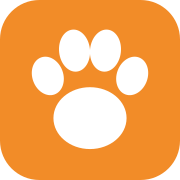
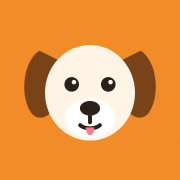
Tablet-ready PWA: install as Ella, full offline photos, tablet layouts, noindex
- Manifest named Ella, standalone, any orientation; dog-face icon in all Android
  and Apple sizes (120/152/167/180 touch icons, maskable 192/512)
- Precache every breed photo and thumbnail; build fails if any is missing
- Two-column breed list in landscape, side-by-side breed page on wide screens
- vercel.json (Vite build, SPA fallback, SW cache headers, X-Robots-Tag)
- noindex meta tag and robots.txt disallowing everything

diff --git a/vite.config.ts b/vite.config.ts
@@ -2,36 +2,44 @@ import react from '@vitejs/plugin-react'
 import { defineConfig } from 'vite'
 import { VitePWA } from 'vite-plugin-pwa'
 
+const ANY_SIZES = [48, 72, 96, 128, 144, 192, 256, 384, 512]
+
 export default defineConfig({
   plugins: [
     react(),
     VitePWA({
       registerType: 'autoUpdate',
       injectRegister: 'script',
-      includeAssets: ['favicon.svg', 'apple-touch-icon.png', 'dogs/*.webp'],
       manifest: {
-        name: 'כלבים של אלה',
-        short_name: 'כלבים',
+        id: '/',
+        name: 'Ella',
+        short_name: 'Ella',
         description: 'גזעי כלבים: תמונות ועובדות בעברית',
         lang: 'he',
         dir: 'rtl',
-        start_url: '.',
-        scope: '.',
+        start_url: '/',
+        scope: '/',
         display: 'standalone',
+        // both portrait and landscape
         orientation: 'any',
         background_color: '#fff8ee',
         theme_color: '#f28c28',
+        categories: ['education', 'kids'],
         icons: [
-          { src: 'icon-192.png', sizes: '192x192', type: 'image/png' },
-          { src: 'icon-512.png', sizes: '512x512', type: 'image/png' },
-          { src: 'icon-512-maskable.png', sizes: '512x512', type: 'image/png', purpose: 'maskable' },
+          ...ANY_SIZES.map((s) => ({ src: `icons/icon-${s}.png`, sizes: `${s}x${s}`, type: 'image/png', purpose: 'any' })),
+          { src: 'icons/maskable-192.png', sizes: '192x192', type: 'image/png', purpose: 'maskable' },
+          { src: 'icons/maskable-512.png', sizes: '512x512', type: 'image/png', purpose: 'maskable' },
+          { src: 'apple-touch-icon.png', sizes: '180x180', type: 'image/png' },
         ],
       },
       workbox: {
-        // precache the app shell, the font and every dog photo so it all works offline
-        globPatterns: ['**/*.{js,css,html,svg,png,webp,woff2}'],
+        // Precache the app shell, the fonts, the icons and EVERY breed photo and
+        // thumbnail, so the whole app works offline after the first open.
+        // scripts/check-precache.mjs fails the build if any photo is missing.
+        globPatterns: ['**/*.{js,css,html,svg,png,webp,woff2,txt,webmanifest}'],
         maximumFileSizeToCacheInBytes: 5 * 1024 * 1024,
         navigateFallback: 'index.html',
+        cleanupOutdatedCaches: true,
       },
     }),
   ],

diff --git a/tests/pwa.test.ts b/tests/pwa.test.ts
@@ -1,0 +1,39 @@
+import { existsSync, readFileSync } from 'node:fs'
+import path from 'node:path'
+import { describe, expect, it } from 'vitest'
+
+const root = path.resolve(import.meta.dirname, '..')
+const read = (p: string) => readFileSync(path.join(root, p), 'utf8')
+
+describe('install, offline and privacy setup', () => {
+  it('keeps search engines out', () => {
+    expect(read('index.html')).toMatch(/<meta name="robots" content="noindex, nofollow"/)
+    expect(read('public/robots.txt')).toMatch(/User-agent: \*\s+Disallow: \/\s*$/)
+    expect(read('vercel.json')).toContain('X-Robots-Tag')
+  })
+
+  it('is Hebrew and right-to-left', () => {
+    expect(read('index.html')).toContain('<html lang="he" dir="rtl">')
+  })
+
+  it('has every home-screen icon on disk', () => {
+    const config = read('vite.config.ts')
+    for (const s of [48, 72, 96, 128, 144, 192, 256, 384, 512]) {
+      expect(existsSync(path.join(root, `public/icons/icon-${s}.png`))).toBe(true)
+    }
+    for (const s of [120, 152, 167, 180]) {
+      expect(existsSync(path.join(root, `public/icons/apple-touch-icon-${s}.png`))).toBe(true)
+      expect(read('index.html')).toContain(`sizes="${s}x${s}" href="/icons/apple-touch-icon-${s}.png"`)
+    }
+    expect(existsSync(path.join(root, 'public/apple-touch-icon.png'))).toBe(true)
+    expect(existsSync(path.join(root, 'public/icons/maskable-512.png'))).toBe(true)
+    expect(config).toContain("name: 'Ella'")
+    expect(config).toContain("display: 'standalone'")
+    expect(config).toContain("orientation: 'any'")
+  })
+
+  it('precaches photos for offline use', () => {
+    expect(read('vite.config.ts')).toMatch(/globPatterns: \[.*webp/)
+    expect(read('package.json')).toContain('scripts/check-precache.mjs')
+  })
+})

diff --git a/src/index.css b/src/index.css
@@ -201,3 +201,38 @@ img { display: block; }
   .breed-title { font-size: 46px; }
 }
 .dog-ear { fill: rgba(0, 0, 0, 0.18); }
+
+/* ---------------------------------------------------------------- tablets */
+/* tablet portrait: one wide column with bigger rows */
+@media (min-width: 700px) {
+  main { padding-inline: 24px; }
+  .breed-row { min-height: 108px; }
+  .breed-row img { width: 88px; height: 88px; }
+  .breed-name { font-size: 26px; }
+}
+
+/* landscape tablets and computers: breeds in two columns (three when there is room) */
+@media (min-width: 700px) and (orientation: landscape) {
+  .list-page { max-width: 1180px; }
+  .breed-list { grid-template-columns: repeat(2, minmax(0, 1fr)); gap: 14px; }
+  .search { max-width: 640px; }
+}
+@media (min-width: 1300px) and (orientation: landscape) {
+  .list-page { max-width: 1400px; }
+  .breed-list { grid-template-columns: repeat(3, minmax(0, 1fr)); }
+}
+
+/* wide screens: breed page in two columns, photo beside the facts */
+@media (min-width: 900px) and (orientation: landscape) {
+  .breed-page { max-width: 1240px; }
+  .breed-layout {
+    display: grid;
+    grid-template-columns: minmax(0, 5fr) minmax(0, 6fr);
+    gap: 28px;
+    align-items: start;
+  }
+  .breed-side { position: sticky; top: calc(84px + env(safe-area-inset-top)); }
+  .hero img { max-height: calc(100vh - 260px); }
+  .breed-main > .card:first-child, .breed-main > .numbers:first-child { margin-top: 0; }
+  .about-page { max-width: 900px; }
+}

diff --git a/index.html b/index.html
@@ -3,10 +3,21 @@
   <head>
     <meta charset="UTF-8" />
     <meta name="viewport" content="width=device-width, initial-scale=1.0, viewport-fit=cover" />
+    <meta name="robots" content="noindex, nofollow" />
     <meta name="theme-color" content="#f28c28" />
     <meta name="description" content="גזעי כלבים: תמונות ועובדות בעברית" />
+    <meta name="mobile-web-app-capable" content="yes" />
+    <meta name="apple-mobile-web-app-capable" content="yes" />
+    <meta name="apple-mobile-web-app-title" content="Ella" />
+    <meta name="apple-mobile-web-app-status-bar-style" content="default" />
+    <meta name="format-detection" content="telephone=no" />
     <link rel="icon" type="image/svg+xml" href="/favicon.svg" />
+    <link rel="icon" type="image/png" sizes="96x96" href="/icons/icon-96.png" />
     <link rel="apple-touch-icon" href="/apple-touch-icon.png" />
+    <link rel="apple-touch-icon" sizes="120x120" href="/icons/apple-touch-icon-120.png" />
+    <link rel="apple-touch-icon" sizes="152x152" href="/icons/apple-touch-icon-152.png" />
+    <link rel="apple-touch-icon" sizes="167x167" href="/icons/apple-touch-icon-167.png" />
+    <link rel="apple-touch-icon" sizes="180x180" href="/icons/apple-touch-icon-180.png" />
     <title>כלבים של אלה</title>
   </head>
   <body>

diff --git a/src/components/BreedPage.tsx b/src/components/BreedPage.tsx
@@ -39,6 +39,8 @@ export default function BreedPage({ breed: b }: { breed: Breed }) {
         <BackButton />
       </div>
 
+      <div className="breed-layout">
+      <div className="breed-side">
       <div className="hero">
         <img src={asset(b.photo.large)} alt={`כלב מגזע ${b.nameHe}`} width={b.photo.width} height={b.photo.height} />
       </div>
@@ -57,6 +59,9 @@ export default function BreedPage({ breed: b }: { breed: Breed }) {
         </p>
       )}
 
+      </div>
+
+      <div className="breed-main">
       {b.size && (
         <Section title="גודל" icon="🐕">
           <SizeScale size={b.size} />
@@ -109,6 +114,9 @@ export default function BreedPage({ breed: b }: { breed: Breed }) {
           </ul>
         </Section>
       )}
+
+      </div>
+      </div>
 
       <div className="bottom-back">
         <BackButton />

diff --git a/CLAUDE.md b/CLAUDE.md
@@ -20,6 +20,24 @@ sometimes on a computer.
 - At runtime: no external links, ads, analytics, cookies, sign-ups or network calls.
   Nothing is stored about the user. The font (Rubik, `@fontsource/rubik`) is bundled locally.
 
+## Tablet, install and hosting
+
+- Main device: a tablet, in portrait and landscape (also phones and computers).
+  Landscape tablets show breeds in two columns (three on wide screens) and the breed
+  page side by side (photo + facts). Check both orientations after layout changes.
+- Installable PWA: manifest name "Ella", `display: standalone`, `orientation: any`.
+  Icons in `public/icons/` (Android/manifest 48–512, maskable 192/512, Apple touch
+  120/152/167/180) plus `public/apple-touch-icon.png`, all rendered from
+  `public/favicon.svg` by `node scripts/make-icons.mjs`.
+- Fully offline after the first open: the service worker precaches the app shell,
+  fonts, icons and every breed photo and thumbnail. `npm run build` ends with
+  `scripts/check-precache.mjs`, which fails the build if any photo is not precached.
+- Hosting: Vercel, deploying from `main` (`vercel.json`: Vite build to `dist/`, an
+  index.html fallback rewrite, no-cache headers for the service worker,
+  `X-Robots-Tag: noindex`). Routing is hash-based (`#/breed/<id>`, `#/about`).
+- Kept out of search engines: `<meta name="robots" content="noindex, nofollow">`,
+  `public/robots.txt` disallows everything, plus the `X-Robots-Tag` header.
+
 ## Content rules
 
 - Facts come from sources and are never invented. Sources: Wikidata (breed list, Hebrew
@@ -62,7 +80,7 @@ sometimes on a computer.
 npm install
 npm run dev          # local dev server
 npm test             # Vitest: data checks + Hebrew search
-npm run build        # type-check + production build into dist/ (Vercel uses this)
+npm run build        # type-check + production build into dist/ + offline precache check (Vercel uses this)
 npm run data         # fetch sources/photos and regenerate src/data/breeds.ts
 npm run data -- candidates   # breeds with a Hebrew Wikipedia article not yet in a batch
 npm run data -- photos <slug>   # list free photos from the breed's articles, previews in scripts/.cache/photos/
